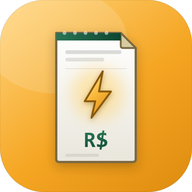
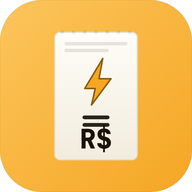
revert: restaura icone original (raio amarelo com sinal de igual)

diff --git a/icon-render.html b/icon-render.html
@@ -13,100 +13,48 @@ svg{display:block;width:100vw;height:100vh;}
 
 <svg viewBox="0 0 512 512" xmlns="http://www.w3.org/2000/svg">
   <defs>
-    <linearGradient id="bg" x1="0.1" y1="0" x2="0.9" y2="1">
-      <stop offset="0%" stop-color="#FFD37A"/>
-      <stop offset="55%" stop-color="#F5A623"/>
-      <stop offset="100%" stop-color="#E08E10"/>
+    <linearGradient id="bg" x1="0" y1="0" x2="1" y2="1">
+      <stop offset="0%" stop-color="#FCC55C"/>
+      <stop offset="100%" stop-color="#F5A623"/>
     </linearGradient>
     <linearGradient id="paper" x1="0" y1="0" x2="0" y2="1">
-      <stop offset="0%" stop-color="#FFFFFF"/>
-      <stop offset="100%" stop-color="#E9E6DC"/>
+      <stop offset="0%" stop-color="#FFFDF8"/>
+      <stop offset="100%" stop-color="#F1ECDD"/>
     </linearGradient>
-    <linearGradient id="accentStripe" x1="0" y1="0" x2="1" y2="0">
-      <stop offset="0%" stop-color="#2E7D5B"/>
-      <stop offset="100%" stop-color="#0F4A34"/>
-    </linearGradient>
-    <linearGradient id="bolt" x1="0.2" y1="0" x2="0.8" y2="1">
-      <stop offset="0%" stop-color="#FFE49A"/>
-      <stop offset="45%" stop-color="#F9B93B"/>
-      <stop offset="100%" stop-color="#E08A16"/>
-    </linearGradient>
-    <filter id="paperShadow" x="-30%" y="-30%" width="160%" height="160%">
-      <feDropShadow dx="0" dy="10" stdDeviation="14" flood-color="#3D2A00" flood-opacity="0.30"/>
-    </filter>
-    <filter id="boltGlow" x="-60%" y="-60%" width="220%" height="220%">
-      <feDropShadow dx="0" dy="4" stdDeviation="7" flood-color="#7A4E00" flood-opacity="0.45"/>
-    </filter>
-    <radialGradient id="boltHalo" cx="50%" cy="50%" r="50%">
-      <stop offset="0%" stop-color="#FFE9A8" stop-opacity="0.95"/>
-      <stop offset="55%" stop-color="#FFD166" stop-opacity="0.45"/>
-      <stop offset="100%" stop-color="#FFD166" stop-opacity="0"/>
-    </radialGradient>
-    <linearGradient id="rsText" x1="0" y1="0" x2="0" y2="1">
-      <stop offset="0%" stop-color="#2E7D5B"/>
-      <stop offset="100%" stop-color="#0F4A34"/>
-    </linearGradient>
-    <filter id="softBlur" x="-100%" y="-100%" width="300%" height="300%">
-      <feGaussianBlur stdDeviation="16"/>
-    </filter>
   </defs>
 
-  <!-- background -->
-  <rect x="0" y="0" width="512" height="512" rx="118" fill="url(#bg)"/>
-  <rect x="0" y="0" width="512" height="512" rx="118" fill="none" stroke="#00000018" stroke-width="2"/>
-  <!-- top-left soft highlight for depth -->
-  <ellipse cx="150" cy="110" rx="190" ry="140" fill="#FFFFFF" opacity="0.14"/>
+  <!-- background rounded square (adaptive icon style) -->
+  <rect x="0" y="0" width="512" height="512" rx="112" fill="url(#bg)"/>
+  <rect x="0" y="0" width="512" height="512" rx="112" fill="none" stroke="#00000014" stroke-width="2"/>
 
-  <!-- bill / paper sheet with folded corner -->
-  <g filter="url(#paperShadow)">
-    <path d="M 150 88
-             L 322 88
-             L 362 128
-             L 362 424
-             Q 362 432 354 432
-             L 158 432
-             Q 150 432 150 424
-             Z"
-          fill="url(#paper)" stroke="#7A6B45" stroke-width="6" stroke-linejoin="round"/>
-    <!-- folded corner triangle -->
-    <path d="M 322 88 L 322 122 Q 322 128 328 128 L 362 128 Z"
-          fill="#D8CBA0" stroke="#7A6B45" stroke-width="5" stroke-linejoin="round"/>
-  </g>
-
-  <!-- accent header stripe (letterhead) -->
-  <path d="M 150 88 L 322 88 L 322 108 L 150 108 Z" fill="url(#accentStripe)"/>
-  <path d="M 150 88 L 322 88 L 322 108 L 150 108 Z" fill="#000000" opacity="0.06"/>
+  <!-- bill / paper sheet -->
+  <rect x="146" y="86" width="220" height="340" rx="14" fill="url(#paper)" stroke="#E4DCC6" stroke-width="3"/>
 
   <!-- perforated top edge -->
-  <g fill="#FFFFFF" fill-opacity="0.55">
-    <circle cx="172" cy="88" r="5"/>
-    <circle cx="200" cy="88" r="5"/>
-    <circle cx="228" cy="88" r="5"/>
-    <circle cx="256" cy="88" r="5"/>
-    <circle cx="284" cy="88" r="5"/>
+  <g fill="#0F1714" fill-opacity="0.08">
+    <circle cx="166" cy="86" r="5"/>
+    <circle cx="196" cy="86" r="5"/>
+    <circle cx="226" cy="86" r="5"/>
+    <circle cx="256" cy="86" r="5"/>
+    <circle cx="286" cy="86" r="5"/>
+    <circle cx="316" cy="86" r="5"/>
+    <circle cx="346" cy="86" r="5"/>
   </g>
 
   <!-- header text lines -->
-  <rect x="174" y="134" width="150" height="10" rx="5" fill="#0F1714" fill-opacity="0.14"/>
-  <rect x="174" y="154" width="104" height="10" rx="5" fill="#0F1714" fill-opacity="0.11"/>
-
-  <!-- divider line -->
-  <rect x="174" y="182" width="164" height="2" fill="#0F1714" fill-opacity="0.10"/>
-
-  <!-- glow halo behind bolt -->
-  <circle cx="260" cy="250" r="90" fill="url(#boltHalo)" filter="url(#softBlur)"/>
+  <rect x="172" y="112" width="168" height="9" rx="4.5" fill="#0F1714" fill-opacity="0.10"/>
+  <rect x="172" y="130" width="118" height="9" rx="4.5" fill="#0F1714" fill-opacity="0.10"/>
 
   <!-- lightning bolt -->
-  <g filter="url(#boltGlow)">
-    <path d="M 274 190 L 226 270 L 254 270 L 244 314 L 296 244 L 264 244 Z"
-          fill="url(#bolt)" stroke="#8A5A0E" stroke-width="5" stroke-linejoin="round"/>
-  </g>
+  <path d="M 274 156 L 226 236 L 254 236 L 244 280 L 296 210 L 264 210 Z"
+        fill="#F5A623" stroke="#8A5A0E" stroke-width="4" stroke-linejoin="round"/>
 
-  <!-- R$ text -->
-  <text x="256" y="392" text-anchor="middle" font-family="JetBrains Mono, monospace" font-weight="800" font-size="60" fill="url(#rsText)">R$</text>
+  <!-- equals sign -->
+  <rect x="220" y="308" width="72" height="10" rx="5" fill="#2B241A"/>
+  <rect x="220" y="328" width="72" height="10" rx="5" fill="#2B241A"/>
 
-  <!-- footer text line -->
-  <rect x="174" y="410" width="90" height="8" rx="4" fill="#0F1714" fill-opacity="0.08"/>
+  <!-- R$ text (maior) -->
+  <text x="256" y="396" text-anchor="middle" font-family="JetBrains Mono, monospace" font-weight="800" font-size="72" fill="#1A1305">R$</text>
 
 </svg>
 